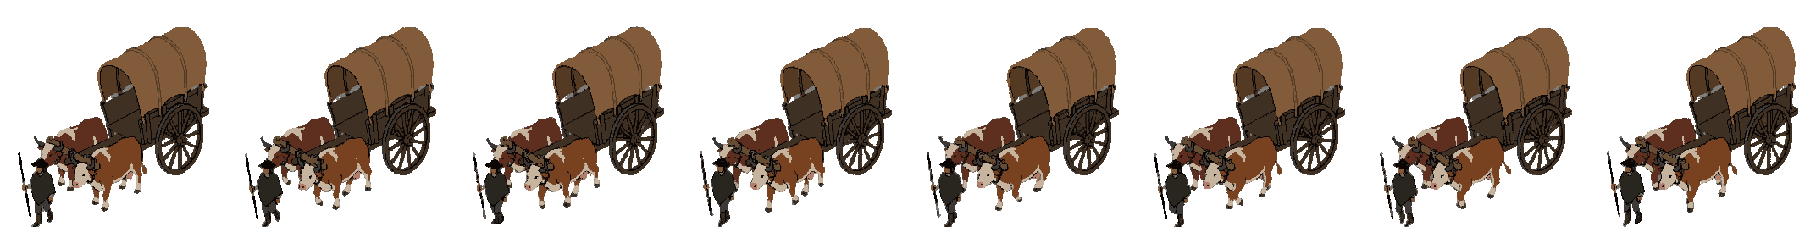
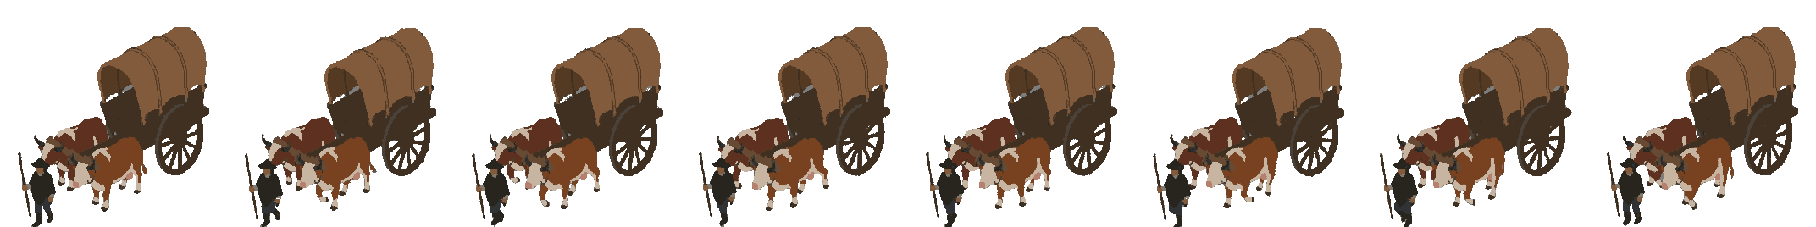
Give the carts a side view and a diagonal, each walking and idle, with no black lines, and turn them to whichever fits the way they go
Claude-Session: https://claude.ai/code/session_01WGHCGv3r5QSiDdXZDgowwx

diff --git a/src/scenes/GameScene.ts b/src/scenes/GameScene.ts
@@ -152,7 +152,7 @@ const TALK = { near: 52, heard: 84, trial: [-140, -80] as [number, number], stan
 /** Someone standing on the map: one to talk to (`npc`), or one who only says what the sign over them shows. */
 interface Talker { name: string; npc?: Npc; x: number; y: number; /** For one who only says a thing: what they say as things stand now. */ says?: () => string; hint: Phaser.GameObjects.Text; /** Something lying there to be picked up: what, and its drawing. */ take?: { what: string; drawn: Phaser.GameObjects.Image }; /** Somewhere something can be done, and the mark on the ground that says so. */ spot?: { at: Spot; mark: Phaser.GameObjects.Image }; /** Something waiting there to be led off. */ charge?: Led; /** Whoever stands there, to be hidden with them. */ figure?: Phaser.GameObjects.GameObject[]; /** Whether it is there to be dealt with at all just now; always, if unsaid. */ there?: () => boolean }
 /** Something being brought somewhere: what, where it is, its drawing and the bar of what it can still take, and whether it is on its way. */
-interface Led { at: Cargo; body: Escort; drawn: Phaser.GameObjects.Sprite; bar: Phaser.GameObjects.Rectangle; going: boolean; /** Told to wait where it is, while the hero clears the way. */ halted?: boolean; /** What F does to it, over it while the hero is near enough to say. */ order?: Phaser.GameObjects.Text; /** How far its ring is shown, and lit, each easing in and out. */ ring?: { seen: number; lit: number }; /** For one that drives on by itself: the road to where it is going. */ road?: Road }
+interface Led { /** Seen from the side just now, and for how long the other view has been wanted. */ sideways?: boolean; turning?: number; at: Cargo; body: Escort; drawn: Phaser.GameObjects.Sprite; bar: Phaser.GameObjects.Rectangle; going: boolean; /** Told to wait where it is, while the hero clears the way. */ halted?: boolean; /** What F does to it, over it while the hero is near enough to say. */ order?: Phaser.GameObjects.Text; /** How far its ring is shown, and lit, each easing in and out. */ ring?: { seen: number; lit: number }; /** For one that drives on by itself: the road to where it is going. */ road?: Road }
 // How near a named place counts as having come to it, in plots; and how many blows of life a bandage gives back.
 const ARRIVED = 1, MENDS = 2;
 // The sign over them comes up and goes out over this long, in seconds.
@@ -322,8 +322,9 @@ export class GameScene extends Phaser.Scene {
       if (b.sprite) this.load.image(b.sprite, b.sprite);
       if (b.inside) this.load.image(b.inside.sprite, b.inside.sprite);
     }
-    for (const { walk, idle } of Object.values(MAPS).flatMap(map => map?.charges ?? [])) {
-      for (const sheet of [walk, idle]) if (sheet) this.load.spritesheet(sheet.sheet, sheet.sheet, { frameWidth: sheet.size, frameHeight: sheet.size });
+    for (const { walk, idle, side } of Object.values(MAPS).flatMap(map => map?.charges ?? [])) {
+      for (const sheet of [walk, idle, side?.walk, side?.idle]) if (sheet) this.load.spritesheet(sheet.sheet, sheet.sheet, { frameWidth: sheet.size, frameHeight: sheet.size });
+      if (side) this.load.image(side.sprite, side.sprite);
     }
     for (const sprite of new Set(Object.values(MAPS).flatMap(map => map?.spots ?? []).flatMap(spot => spot.sprite ?? []))) this.load.image(sprite, sprite);
   }
@@ -549,7 +550,7 @@ export class GameScene extends Phaser.Scene {
         if (!this.textures.exists(at.sprite)) continue;
         const { x, y } = middle(at.from);
         const drawn = this.add.sprite(x, y, at.sprite).setOrigin(0.5, 1).setDepth(y).setVisible(false).setScale(at.scale ?? 1);
-        for (const sheet of [at.walk, at.idle]) {
+        for (const sheet of [at.walk, at.idle, at.side?.walk, at.side?.idle]) {
           if (sheet && this.textures.exists(sheet.sheet) && !this.anims.exists(sheet.sheet)) {
             this.anims.create({ key: sheet.sheet, frames: this.anims.generateFrameNumbers(sheet.sheet, { start: 0, end: sheet.frames - 1 }), frameRate: sheet.rate, repeat: -1 });
           }
@@ -979,6 +980,12 @@ export class GameScene extends Phaser.Scene {
       // Turned to go the way it is going, whichever way it was drawn heading.
       const mirrored = at.fixed ? false : at.faces === 'left' ? body.facing > 0 : body.facing < 0;
       drawn.setPosition(Math.round(body.x), Math.round(body.y)).setDepth(body.y).setFlipX(mirrored);
+      // From the side while it goes more across than down; a moment's other way is not a turn.
+      if (at.side && body.moving) {
+        const across = Math.abs(body.heading.x) > Math.abs(body.heading.y / ISO_Y) * 0.8 || body.heading.y < 0;
+        charge.turning = across === !!charge.sideways ? 0 : (charge.turning ?? 0) + dt;
+        if (charge.turning > 0.35) { charge.sideways = across; charge.turning = 0; }
+      }
       this.pose(charge, body.moving, mirrored);
       bar.setPosition(Math.round(body.x), Math.round(body.y) - drawn.displayHeight - 4).setSize(24 * body.life / body.max, 3);
       const to = middle(at.to);
@@ -1675,11 +1682,11 @@ export class GameScene extends Phaser.Scene {
   // Whoever is being brought along, seen as what it is doing: walking while it goes, its idle while
   // it stands if it has one, or else as drawn.
   private pose(charge: Led, moving: boolean, mirrored: boolean): void {
-    const { at, drawn } = charge, sheet = moving ? at.walk : at.idle;
+    const { at, drawn } = charge, view = charge.sideways && at.side ? at.side : at, sheet = moving ? view.walk : view.idle;
     if (sheet && this.anims.exists(sheet.sheet)) {
       if (drawn.anims.currentAnim?.key !== sheet.sheet || !drawn.anims.isPlaying) drawn.play({ key: sheet.sheet, startFrame: Math.floor(Math.random() * sheet.frames) });
       drawn.setDisplayOrigin(mirrored ? sheet.size - sheet.ax : sheet.ax, sheet.size - sheet.up);
-    } else if (drawn.anims.isPlaying) drawn.stop().setTexture(at.sprite).setOrigin(0.5, 1);
+    } else if (drawn.anims.isPlaying || drawn.texture.key !== view.sprite) drawn.stop().setTexture(view.sprite).setOrigin(0.5, 1);
   }
 
   // Whoever was walking stands as drawn.

diff --git a/src/world/maps/vado.ts b/src/world/maps/vado.ts
@@ -140,8 +140,8 @@ export const vadoDeLasVizcachas: WorldMap = {
   // What has to be brought across the country, with Cabral leading it and the king's soldiers in between.
   charges: [
     { id: 'mateo', name: 'Mateo', who: 'mateo', sprite: 'mateo/sprite.png', walk: { sheet: 'mateo/camina.png', size: 96, frames: 8, rate: 9, ax: 48, up: 1 }, from: [123, 18], to: [12, 47], does: 'llevarse a Mateo', given: 'acepto:entregar', happening: 'entregado:mateo', life: 4, pace: 56, note: 'Mateo llegó al pozo. Los paisanos ya lo rodean.' },
-    { id: 'campana', name: 'La carreta de la campana', drives: true, sprite: 'cosas/carreta.png', faces: 'left', fixed: true, scale: 1.45, walk: { sheet: 'cosas/carreta_anda.png', size: 227, frames: 8, rate: 7, ax: 114, up: 0 }, idle: { sheet: 'cosas/carreta_quieta.png', size: 227, frames: 8, rate: 5, ax: 114, up: 0 }, from: [120, 23], to: [14, 44], does: 'llevar la carreta', given: 'bajada:campana', happening: 'llego:campana', life: 6, pace: 46, note: 'La campana está en la fragua. Para mañana va a ser balas.' },
-    { id: 'carretas', name: 'Las carretas de los heridos', drives: true, sprite: 'cosas/carreta.png', faces: 'left', fixed: true, scale: 1.45, walk: { sheet: 'cosas/carreta_anda.png', size: 227, frames: 8, rate: 7, ax: 114, up: 0 }, idle: { sheet: 'cosas/carreta_quieta.png', size: 227, frames: 8, rate: 5, ax: 114, up: 0 }, from: [114, 22], to: [62, 20], does: 'sacar las carretas', given: 'acepto:escolta', happening: 'llego:carretas', life: 6, pace: 46, note: 'Las carretas llegaron a la loma. Los heridos están donde los van a ver.' },
+    { id: 'campana', name: 'La carreta de la campana', drives: true, sprite: 'cosas/carreta.png', faces: 'left', scale: 1.45, walk: { sheet: 'cosas/carreta_anda.png', size: 227, frames: 8, rate: 7, ax: 114, up: 0 }, idle: { sheet: 'cosas/carreta_quieta.png', size: 226, frames: 8, rate: 5, ax: 113, up: 0 }, side: { sprite: 'cosas/carreta_lado.png', walk: { sheet: 'cosas/carreta_lado_anda.png', size: 223, frames: 8, rate: 7, ax: 112, up: 0 }, idle: { sheet: 'cosas/carreta_lado_quieta.png', size: 223, frames: 8, rate: 5, ax: 112, up: 0 } }, from: [120, 23], to: [14, 44], does: 'llevar la carreta', given: 'bajada:campana', happening: 'llego:campana', life: 6, pace: 46, note: 'La campana está en la fragua. Para mañana va a ser balas.' },
+    { id: 'carretas', name: 'Las carretas de los heridos', drives: true, sprite: 'cosas/carreta.png', faces: 'left', scale: 1.45, walk: { sheet: 'cosas/carreta_anda.png', size: 227, frames: 8, rate: 7, ax: 114, up: 0 }, idle: { sheet: 'cosas/carreta_quieta.png', size: 226, frames: 8, rate: 5, ax: 113, up: 0 }, side: { sprite: 'cosas/carreta_lado.png', walk: { sheet: 'cosas/carreta_lado_anda.png', size: 223, frames: 8, rate: 7, ax: 112, up: 0 }, idle: { sheet: 'cosas/carreta_lado_quieta.png', size: 223, frames: 8, rate: 5, ax: 112, up: 0 } }, from: [114, 22], to: [62, 20], does: 'sacar las carretas', given: 'acepto:escolta', happening: 'llego:carretas', life: 6, pace: 46, note: 'Las carretas llegaron a la loma. Los heridos están donde los van a ver.' },
   ],
   spots: [
     // The same ford with the village behind him: more come, and their captain last; fewer if all the village asked was done.

diff --git a/src/world/zones.ts b/src/world/zones.ts
@@ -110,6 +110,8 @@ export interface Charge {
   walk?: { sheet: string; size: number; frames: number; rate: number; ax: number; up: number };
   /** What it does standing still, in the same kind of sheet as its walk: waiting to set off, told to wait, or arrived. */
   idle?: { sheet: string; size: number; frames: number; rate: number; ax: number; up: number };
+  /** The same seen from the side, for while it goes more across the screen than down it: drawn heading as the main one. */
+  side?: { sprite: string; walk?: { sheet: string; size: number; frames: number; rate: number; ax: number; up: number }; idle?: { sheet: string; size: number; frames: number; rate: number; ax: number; up: number } };
 }
 
 /** Something built, and the plot it stands in: for now a plain block of its size, until it is drawn. */

diff --git a/src/world/escort.ts b/src/world/escort.ts
@@ -21,6 +21,8 @@ export class Escort {
   private hurt = 0;
   /** Which way it last went across the screen: 1 right, -1 left. */
   facing: 1 | -1 = 1;
+  /** The way it last went, along the ground. */
+  heading: Vec = { x: -1, y: 0 };
   /** Whether it moved on the last step. */
   moving = false;
 
@@ -73,6 +75,7 @@ export class Escort {
     else { this.x += dx / far * step; this.y += dy / far * step; }
     this.moving = far > 0.5;
     if (Math.abs(this.x - was) > 0.01) this.facing = this.x > was ? 1 : -1;
+    if (far > 0.5) this.heading = { x: dx / far, y: dy / far };
   }
 
   /** A blow struck at it on purpose: one of its lives. */
